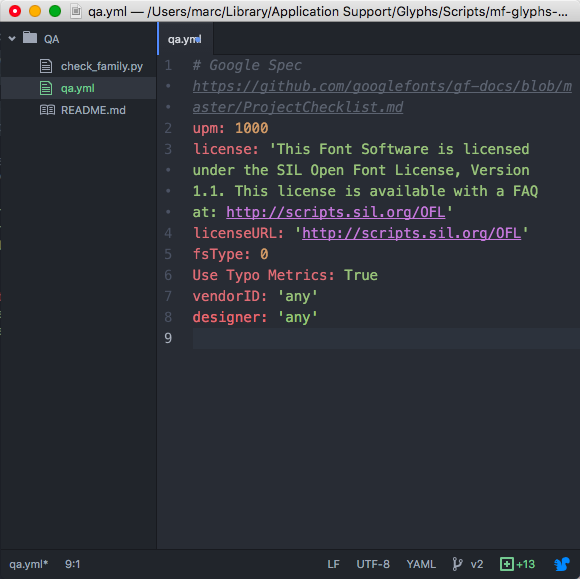
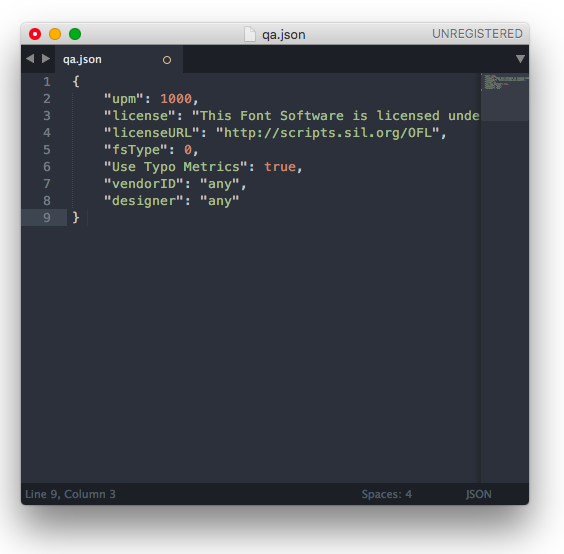
QA: replaced yml with json parser since yml parsing is not part of std library

diff --git a/QA/checkfamily.py b/QA/checkfamily.py
@@ -4,7 +4,7 @@
 Check family for GlyphsApp
 ~~~~~~~~~~~~~~~~~~~~~~~~~~
 
-Check selected family passes qa.yml spec and common font errors.
+Check selected family passes qa.json spec and common font errors.
 
 Refer to README for further info.
 '''
@@ -12,7 +12,7 @@ import vanilla
 import os
 import glob
 import sys
-import yaml
+import json
 import re
 
 script_path = glob.glob(r'/Users/*/Library/Application Support/Glyphs/Scripts/mf-glyphs-scripts')[0]
@@ -75,14 +75,14 @@ class GlyphsUI(object):
 
 
 def main_glyphs():
-    qa_spec = yaml.safe_load(open(script_path + '/QA/qa.yml', 'r'))
+    qa_spec = json.loads(open(script_path + '/QA/qa.json', 'r'))
     ui = GlyphsUI(qa_spec)
 
 
 def main(**kwargs):
     font = Glyphs.font
 
-    qa_spec = yaml.safe_load(open(script_path + '/QA/qa.yml', 'r'))
+    qa_spec = json.loads(open(script_path + '/QA/qa.json', 'r'))
 
     print '***Check Meta Data***'
     for key in qa_spec:

diff --git a/QA/README.md b/QA/README.md
@@ -8,7 +8,7 @@ This tool is useful Foundries and individuals who have font metadata which shoul
 
 ## Configuration file
 
-Place your custom metadata into *qa.yml*
+Place your custom metadata into *qa.json*
 
 ![alt tag](config_file.png)
 
